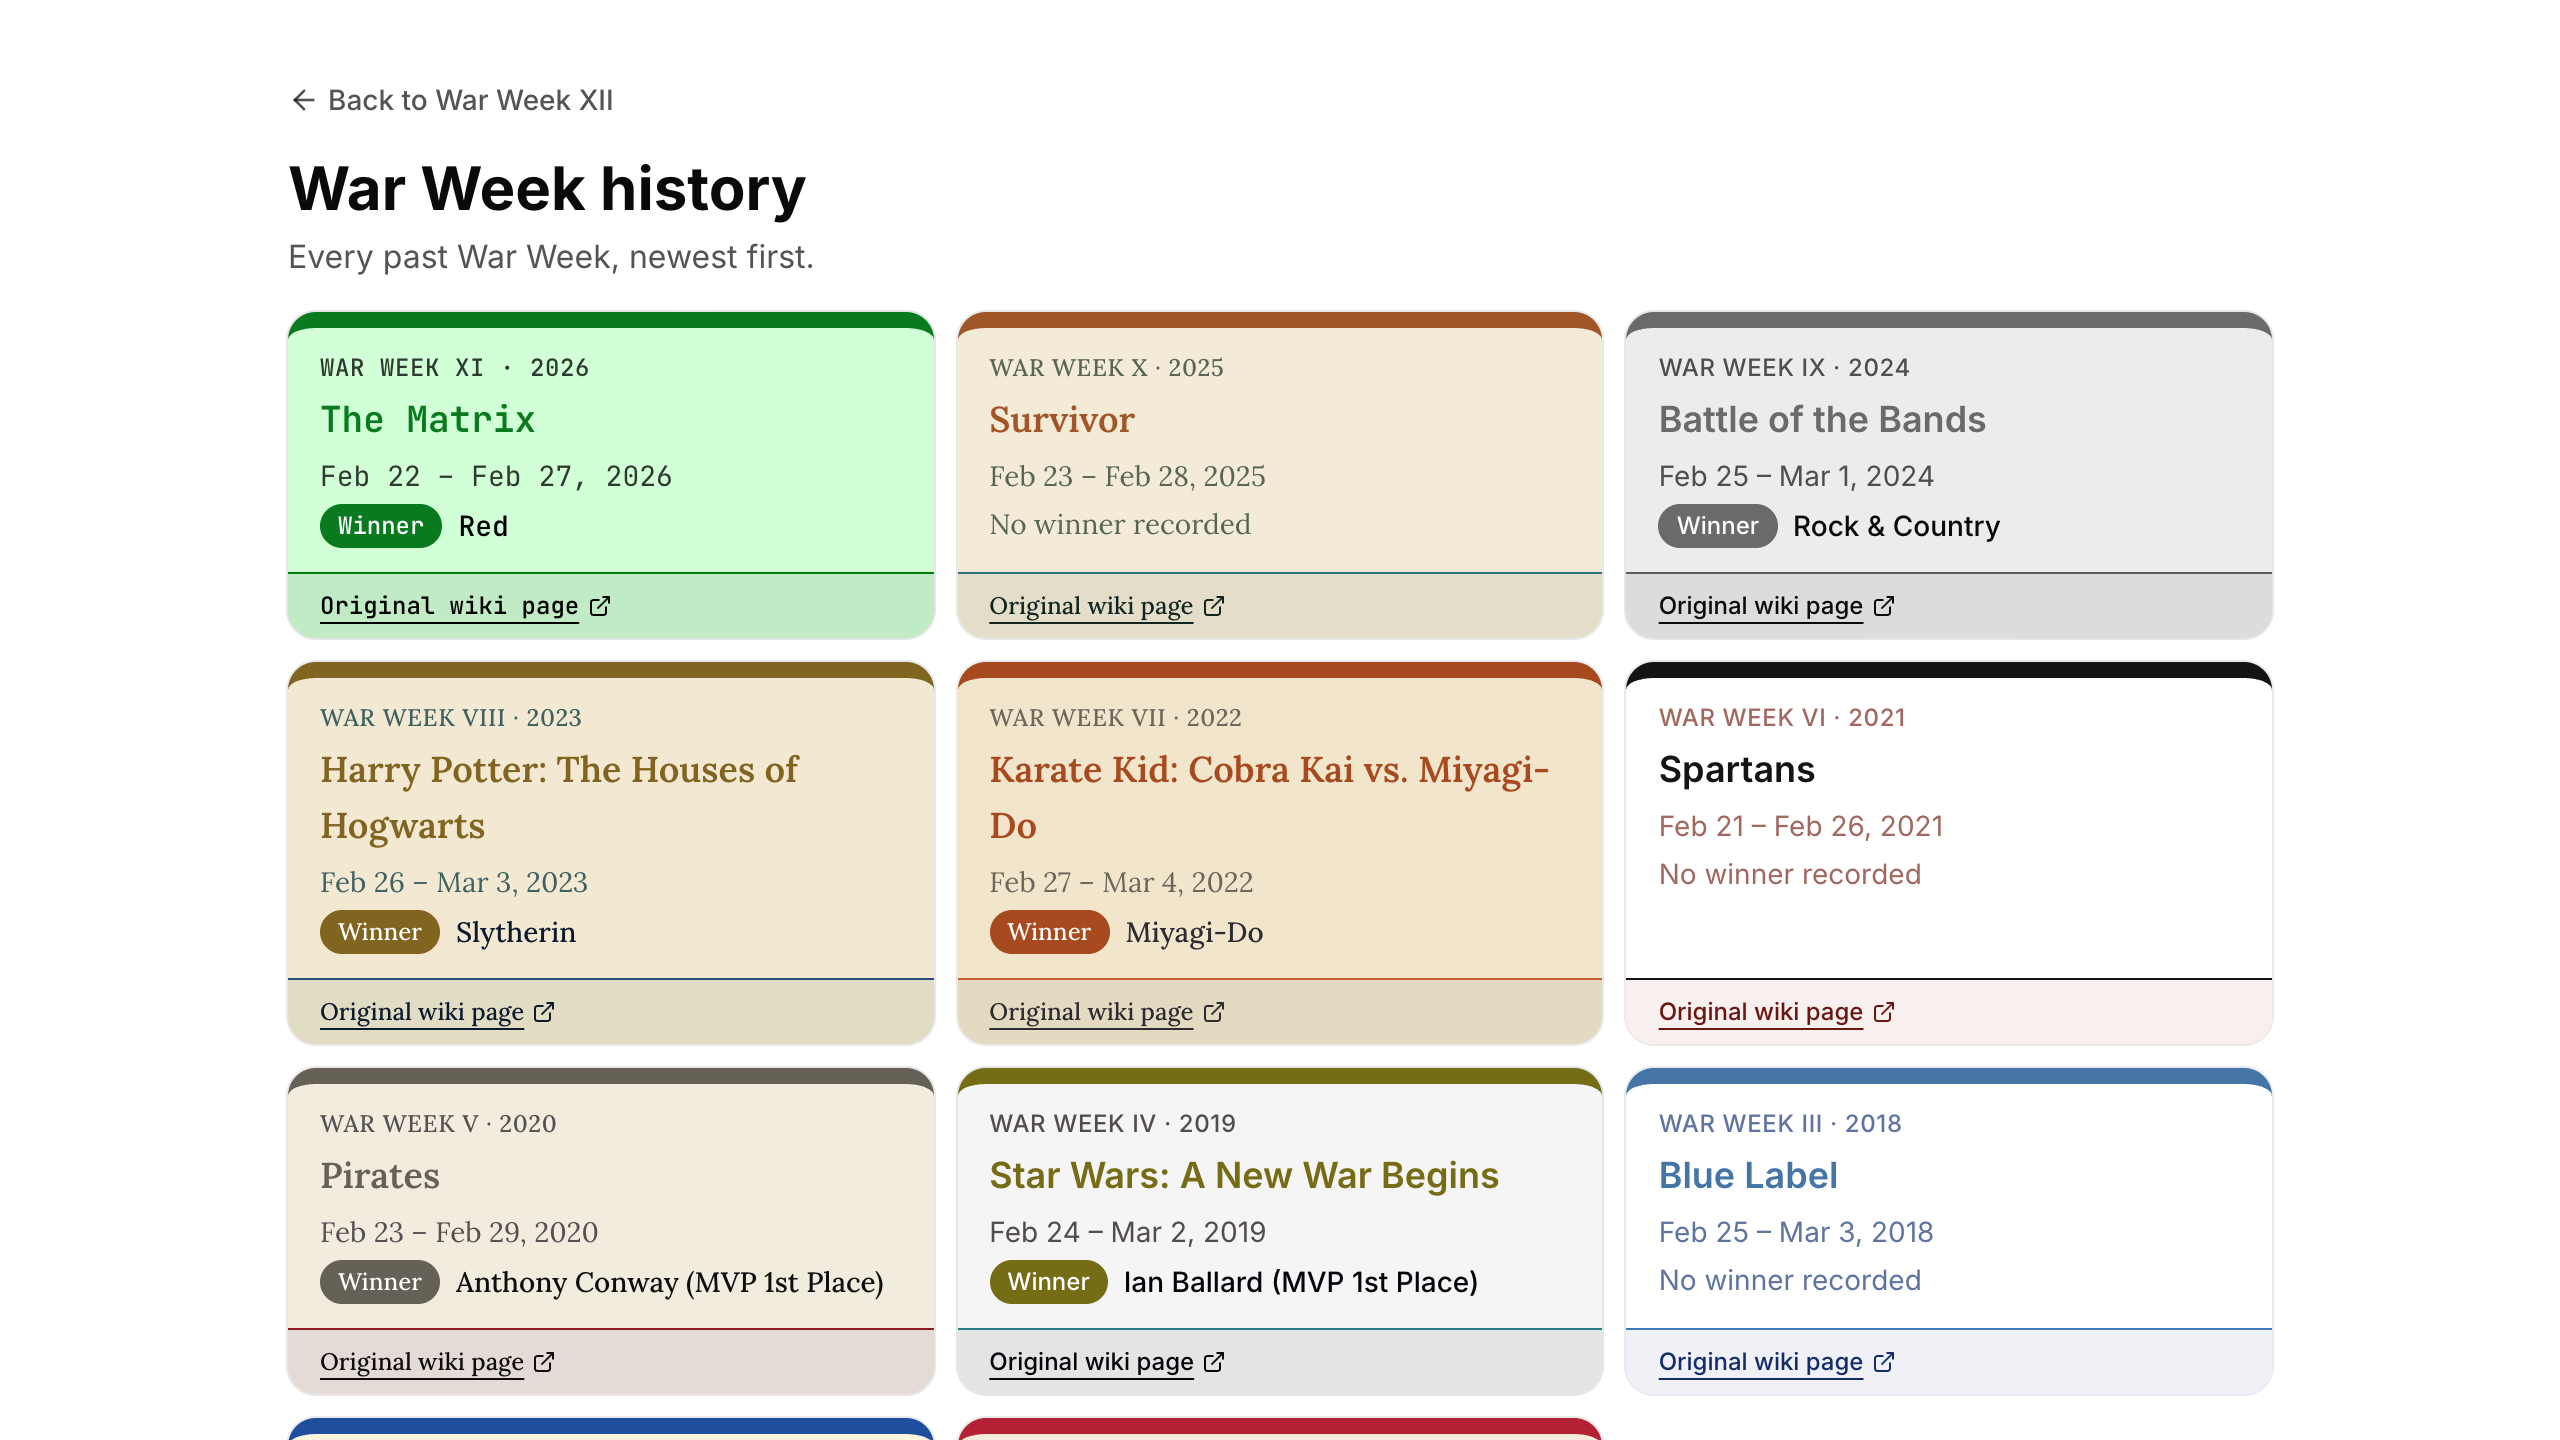
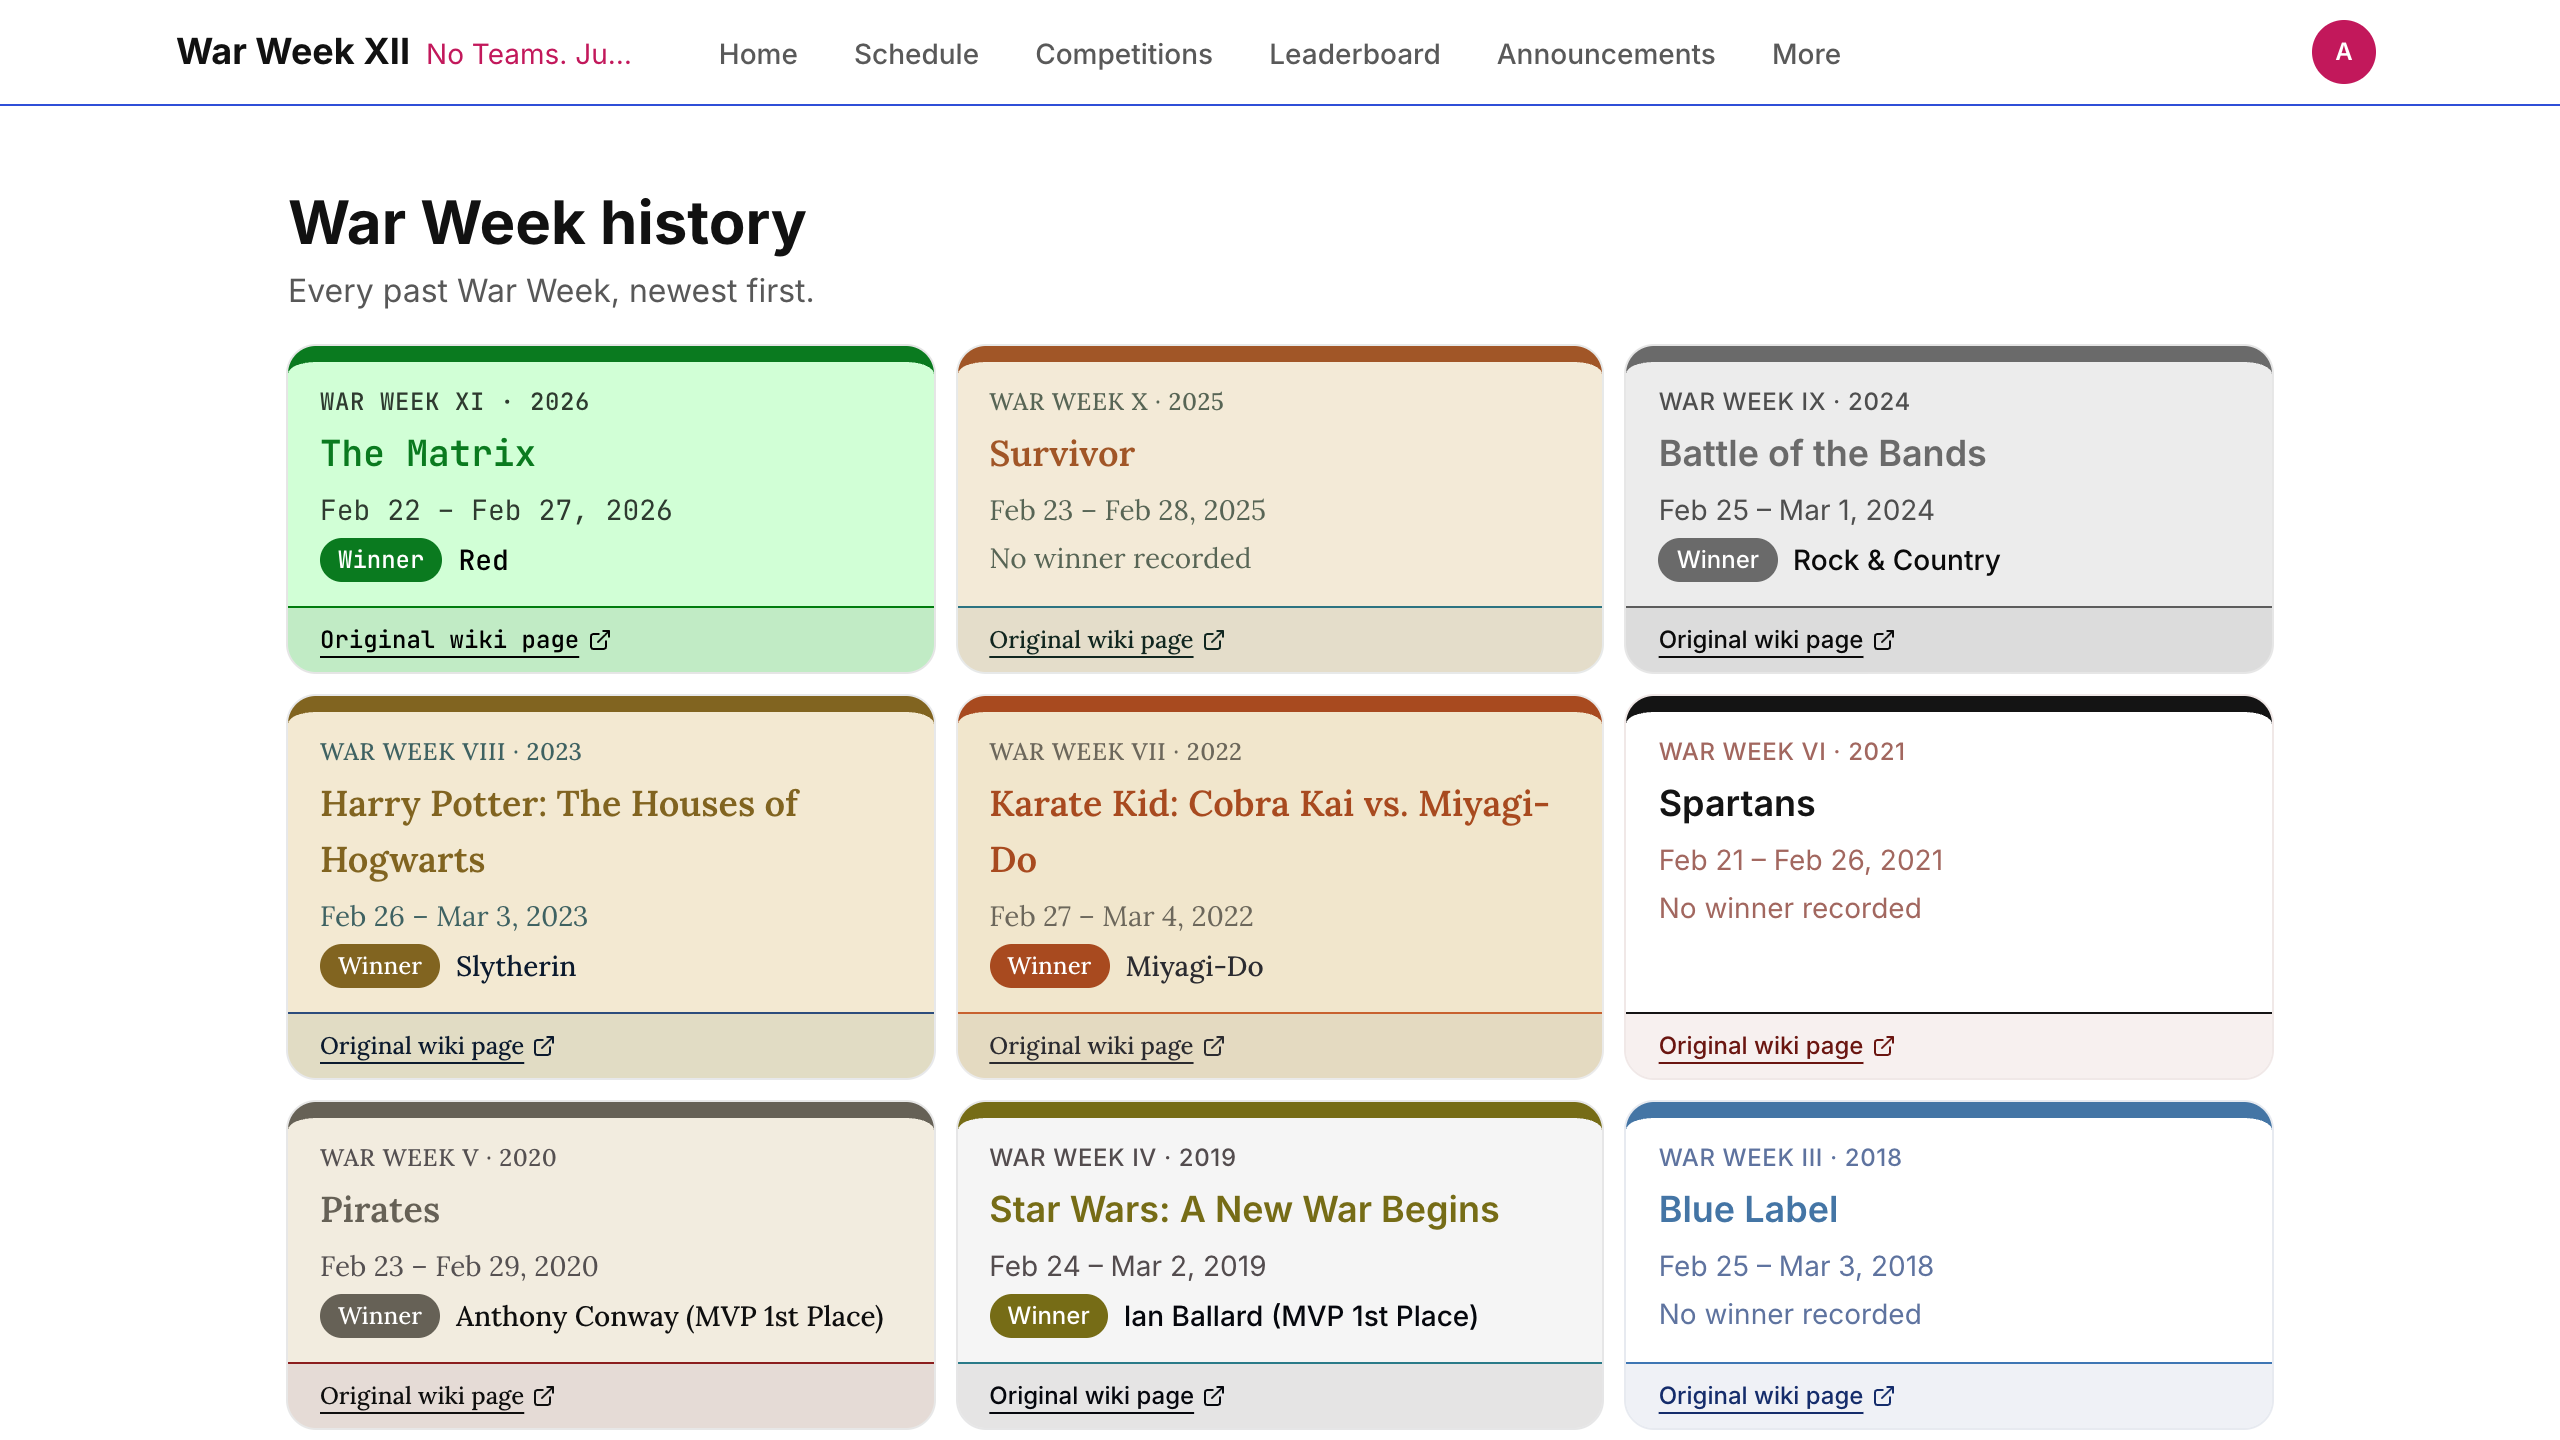
docs(r15): checklist, guide, Organizer guide and About stills follow the R15 quick fixes

diff --git a/src/components/organizer-guide.tsx b/src/components/organizer-guide.tsx
@@ -228,15 +228,16 @@ export function OrganizerGuide({
           results screen, or straight from the Competition page&apos;s Bracket
           (which reads as a tree by default — Rounds left to right for Single
           elimination, one box per Heat for Heats, with a List toggle back to
-          the plain list), tap a Heat to record it: its winner, or for a bigger
-          Heat its Entrants in finishing order, with scores or forfeits, in a
-          dialog centered on a screen or a bottom sheet on a phone. Changing who
-          advances resets the later Heats that followed from it, while a
-          score-only edit keeps them. Finalize turns the Bracket&apos;s placings
-          into Points Entries marked &quot;From bracket&quot;; un-finalize
-          removes them so you can fix a Heat and finalize again. While it&apos;s
-          finalized, the Competition&apos;s scoring and Placement Points
-          can&apos;t change: un-finalize first.
+          the plain list), press Record result on a Heat (Edit once it&apos;s
+          recorded) to enter it: its winner, or for a bigger Heat its Entrants
+          in finishing order, with scores or forfeits, in a dialog centered on a
+          screen or a bottom sheet on a phone. Changing who advances resets the
+          later Heats that followed from it, while a score-only edit keeps them.
+          Finalize turns the Bracket&apos;s placings into Points Entries marked
+          &quot;From bracket&quot;; un-finalize removes them so you can fix a
+          Heat and finalize again. While it&apos;s finalized, the
+          Competition&apos;s scoring and Placement Points can&apos;t change:
+          un-finalize first.
         </p>
         <h3 className="font-semibold">Squads and self-report</h3>
         <p className="text-foreground/70">

diff --git a/docs/regression-checklist.md b/docs/regression-checklist.md
@@ -118,9 +118,10 @@ line that no longer matches the app is a bug in this file.
   since `/<edition>` is not public), and the screenshot shows that
   edition's colors and font, not a past edition's. Two by-design
   exceptions: `/admin` wears the edition being edited (an Archive edition
-  picked in the switcher wears its own theme), and the History list and
-  each Archive view (`/history`, `/<past edition>`) wear each past
-  edition's own theme.
+  picked in the switcher wears its own theme), and each Archive view
+  (`/<past edition>`) wears that past edition's own theme. `/history` and
+  `/history/awards/<id>` wear the current War Week, like any participant
+  page; only the edition cards on `/history` show their own colors.
 - **No horizontal scroll:** on each page,
   `document.documentElement.scrollWidth <= document.documentElement.clientWidth`.
   That alone cannot catch clipping (`/about`'s root has `overflow-hidden`),
@@ -282,6 +283,21 @@ on the matching War Week page.
       every Heat (a dialog at 1440, a bottom sheet at 390), and finalize.
       The finalized Bracket's Placement Points appear in Points Entries and
       the Standings, and "Play the Finale" opens its Bracket Finale.
+- [ ] **Bracket results: advancers and buttons.** On
+      `/admin/brackets/<id>` for a Heats Bracket, record a Heat: every
+      Entrant that advances (place up to the Heat's advancing count) is
+      highlighted on its card, as on the Participant tree, and the Heat
+      result form marks "Advances" beside those places. In the final, only
+      1st is highlighted. An unplayed Heat has a solid "Record result"
+      button; a recorded one has an outline "Edit".
+- [ ] **Games settings show what was saved.** On a `games` Competition's
+      Games page, change a setting (for Ranked, the Finish Points) and
+      press Save settings: the fields keep the saved values with no reload;
+      reload and come back later, and they are still there. A trailing or
+      doubled comma in Finish Points ("5, 3, 1,") saves 5, 3, 1, with no
+      extra 0. Finish Points says it is per finishing place in one Game;
+      Placement Points says it is set in the Competition's Edit sheet and
+      is what the leaderboard's top places earn in the Standings.
 - [ ] **Close a `games` Competition.** Log two Games as the Organizer in
       a `head-to-head` Competition with Placement Points (Log a Game on its
       public Competition page), then Close on its Games page: its top
@@ -525,6 +541,24 @@ that nothing personal shows (no You highlight, no Log a Game).
       Once an Award has a Category, Awards sit under Category headings (each
       a link to its through-the-years page), then "Other Awards"; with no
       Category anywhere there are no headings.
+- [ ] **Top nav is centred.** At 1440, on `/<edition>` and `/history`, the
+      links in the header's top nav sit in the header's true centre (their
+      midpoint within a few px of the viewport's midpoint, with the brand on
+      the left and the avatar on the right); a long tagline truncates
+      rather than pushing them off centre.
+- [ ] **Cursors.** At 1440, hover a link, a button, a tab and a menu item
+      on a participant page and in admin: each shows the pointer cursor; a
+      disabled button (e.g. Save settings on a closed Participation
+      Competition) shows not-allowed.
+- [ ] **Buttons follow the rule.** On the admin Competitions, Roster and
+      Schedule lists, the primary action ("Add Competition", "Add Squad",
+      etc.) is a solid button, secondary ones are outline, and only icon or
+      tertiary actions are ghost.
+- [ ] **History wears the War Week chrome.** `/history` and a Category page
+      (`/history/awards/<id>`) show the current War Week's top nav (at
+      1440), phone tab bar (at 390) and footer, in the current War Week's
+      Appearance Theme and the viewer's Display; there is no "Back to War
+      Week" link; the edition cards keep their own colors.
 - [ ] **History.** `/history` lists every past War Week with its Story
       Theme and Winner; open three past editions, including the oldest:
       each shows its archive view (an edition with no Banner URL shows no

diff --git a/docs/maintainers-guide.md b/docs/maintainers-guide.md
@@ -417,14 +417,17 @@ its Bracket page, not the Competition's Edit form.
 
 A Bracket reads as a tree by default on its Competition page: single
 elimination shows its Rounds left to right joined by lines; Heats shows one
-box per Heat with the advancers highlighted. On a phone it's one Round at a
+box per Heat with the advancers highlighted (the same on the admin results
+screen, where the Heat result form also marks "Advances" on the advancing
+places). On a phone it's one Round at a
 time, with Round tabs. Results fill in live as they're recorded, and a
 **List** toggle switches back to the plain list. `/admin/brackets/<id>` (the
 results screen) still shows the list.
 
 On the day: the builder's **By Standings** button draws Seed Positions
 from the current Standings (ties at random) instead of Generate's random
-draw. On the results screen, each Heat's **Time & place** button sets its
+draw. On the results screen, each Heat card has a solid **Record result**
+button (an outline **Edit** once it's recorded) and a **Time & place** button that sets its
 Day, start time (ET) and location; Hosts can do it for their own
 Competitions. A timed Heat shows its when-line ("Sunday, Feb 22 · 7:00 PM
 ET · Main room") on its card and in the Participant's "Your next Heat", and
@@ -600,7 +603,11 @@ different way.
 
 - The Game Type's own settings (draws and Best of off/3/5/7 for
   head-to-head; count best or total, direction and a unit label for
-  best-score; a Finish Points table for ranked).
+  best-score; a Finish Points table for ranked: points per finishing place
+  in one Game, 1st first, blank meaning one point per player beaten; empty
+  entries such as a trailing comma are ignored. Not the Competition's
+  Placement Points, which pay the Standings and are set in its Edit sheet).
+  Saving shows the saved values on the page and when you return.
 - **Entrants**: open to everyone eligible, or a fixed list (pick Teams or
   Participants, as for a Bracket). A Best of needs a fixed list of exactly
   two Entrants.
@@ -683,6 +690,11 @@ Notes:
   `<input type="time">`, or `<input type="color">`. Add a missing primitive
   with `pnpm dlx shadcn@latest add <name>`; don't hand-roll a control shadcn
   already has.
+- **Button variants.** A page's primary action is a solid `default`
+  Button (Add …, Record result, Save); secondary actions are `outline`
+  (Edit, Cancel); `ghost` is only for icon buttons and tertiary actions.
+  Every clickable control shows the pointer cursor and a disabled one
+  not-allowed (a rule in `globals.css`), so don't restyle that per button.
 - A single choice among a few options (who won, which Entrant) is a
   `ToggleGroup` from `ui/toggle-group`: single-select, and kept
   non-deselectable by ignoring an empty `onValueChange` — never `Button`s
@@ -793,7 +805,8 @@ Competiscore data is gone; `old-wikis/`, the live wiki pages (and the Drive
 folders they link to) and what you remember are the only sources. For
 Claude to read the wiki, sign in to it in the Claude Code browser first.
 Leave `seeds/demo/xi.json` alone unless a test needs different demo data. Load locally with `pnpm seed:load seeds/<edition>.json`, then check
-`/history` and `/<edition>`.
+`/history` and `/<edition>`. `/history` and a Category page wear the
+current War Week's nav, tab bar, footer and theme (`src/app/history/layout.tsx`).
 
 ## Guardrails
 
